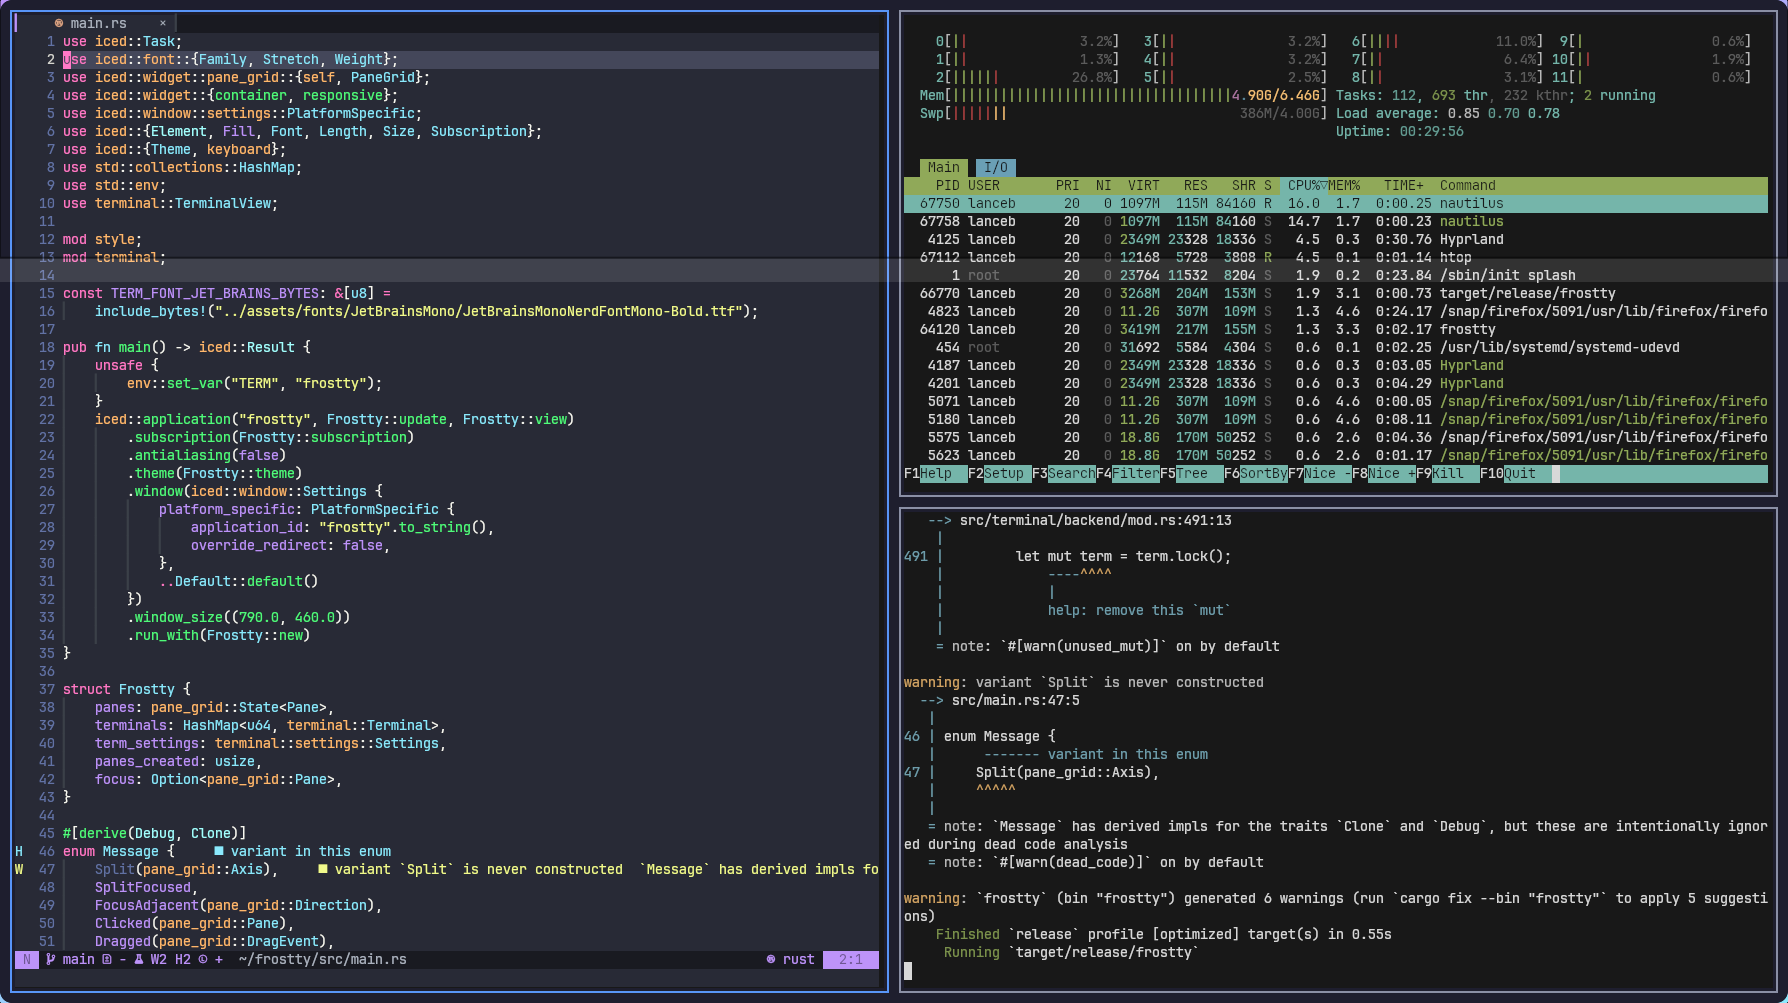
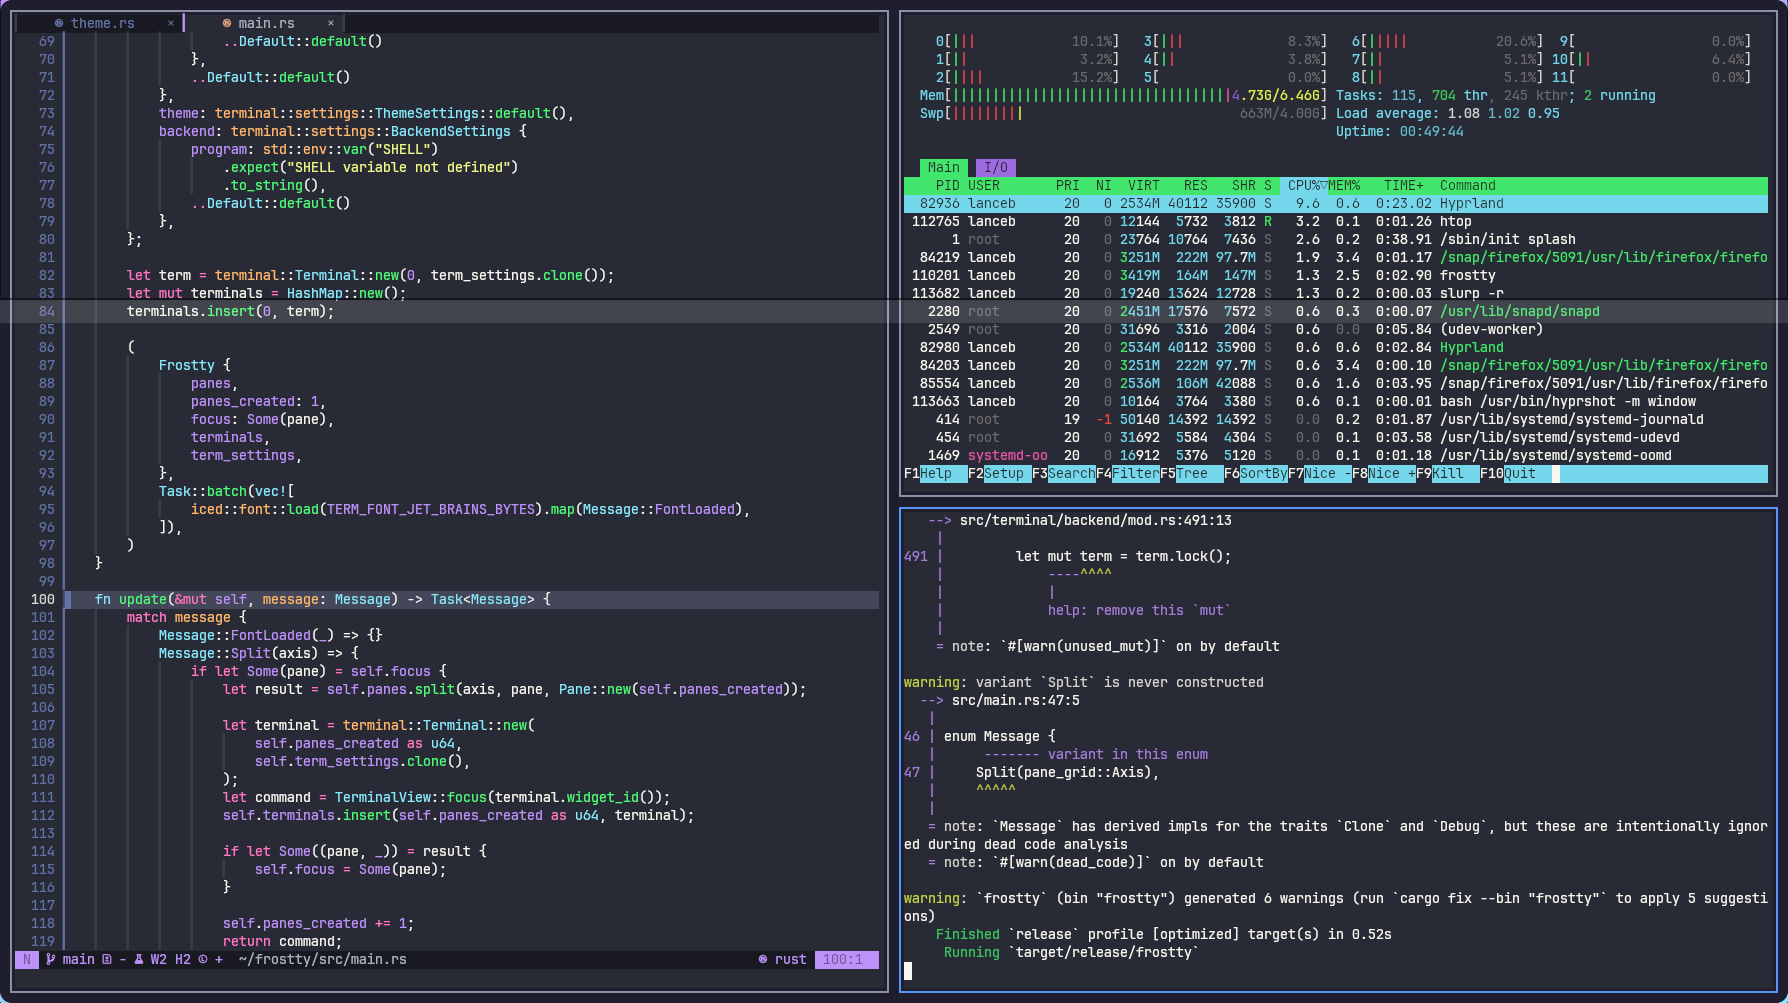
changed default theme to be in line with iced

diff --git a/src/terminal/theme.rs b/src/terminal/theme.rs
@@ -42,34 +42,34 @@ pub struct ColorPalette {
 impl Default for ColorPalette {
     fn default() -> Self {
         Self {
-            foreground: String::from("#d8d8d8"),
-            background: String::from("#181818"),
-            black: String::from("#181818"),
-            red: String::from("#ac4242"),
-            green: String::from("#90a959"),
-            yellow: String::from("#f4bf75"),
-            blue: String::from("#6a9fb5"),
-            magenta: String::from("#aa759f"),
-            cyan: String::from("#75b5aa"),
-            white: String::from("#d8d8d8"),
-            bright_black: String::from("#6b6b6b"),
-            bright_red: String::from("#c55555"),
-            bright_green: String::from("#aac474"),
-            bright_yellow: String::from("#feca88"),
-            bright_blue: String::from("#82b8c8"),
-            bright_magenta: String::from("#c28cb8"),
-            bright_cyan: String::from("#93d3c3"),
-            bright_white: String::from("#f8f8f8"),
+            foreground: String::from("#f8f8f2"),
+            background: String::from("#282a36"),
+            black: String::from("#262626"),
+            red: String::from("#e64747"),
+            green: String::from("#42e66c"),
+            yellow: String::from("#e4f34a"),
+            blue: String::from("#9b6bdf"),
+            magenta: String::from("#e356a7"),
+            cyan: String::from("#75d7ec"),
+            white: String::from("#f8f8f2"),
+            bright_black: String::from("#7a7a7a"),
+            bright_red: String::from("#ff5555"),
+            bright_green: String::from("#50fa7b"),
+            bright_yellow: String::from("#f1fa8c"),
+            bright_blue: String::from("#bd93f9"),
+            bright_magenta: String::from("#ff79c6"),
+            bright_cyan: String::from("#8be9fd"),
+            bright_white: String::from("#f9f9fb"),
             bright_foreground: None,
-            dim_foreground: String::from("#828482"),
-            dim_black: String::from("#0f0f0f"),
-            dim_red: String::from("#712b2b"),
-            dim_green: String::from("#5f6f3a"),
-            dim_yellow: String::from("#a17e4d"),
-            dim_blue: String::from("#456877"),
-            dim_magenta: String::from("#704d68"),
-            dim_cyan: String::from("#4d7770"),
-            dim_white: String::from("#8e8e8e"),
+            dim_foreground: String::from("#f8f8f2"),
+            dim_black: String::from("#262626"),
+            dim_red: String::from("#e64747"),
+            dim_green: String::from("#42e66c"),
+            dim_yellow: String::from("#e4f34a"),
+            dim_blue: String::from("#9b6bdf"),
+            dim_magenta: String::from("#e356a7"),
+            dim_cyan: String::from("#75d7ec"),
+            dim_white: String::from("#f8f8f2"),
         }
     }
 }
